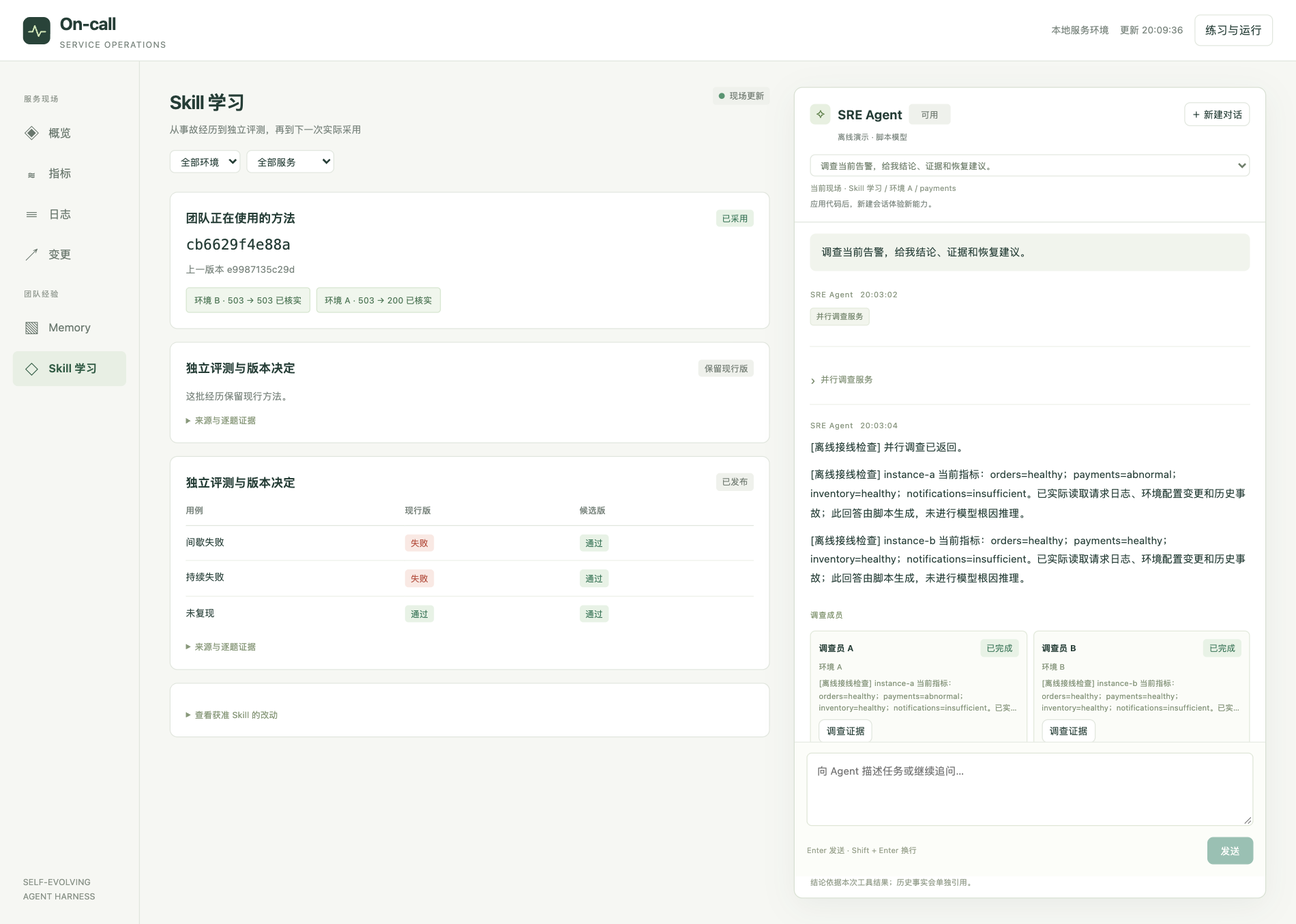
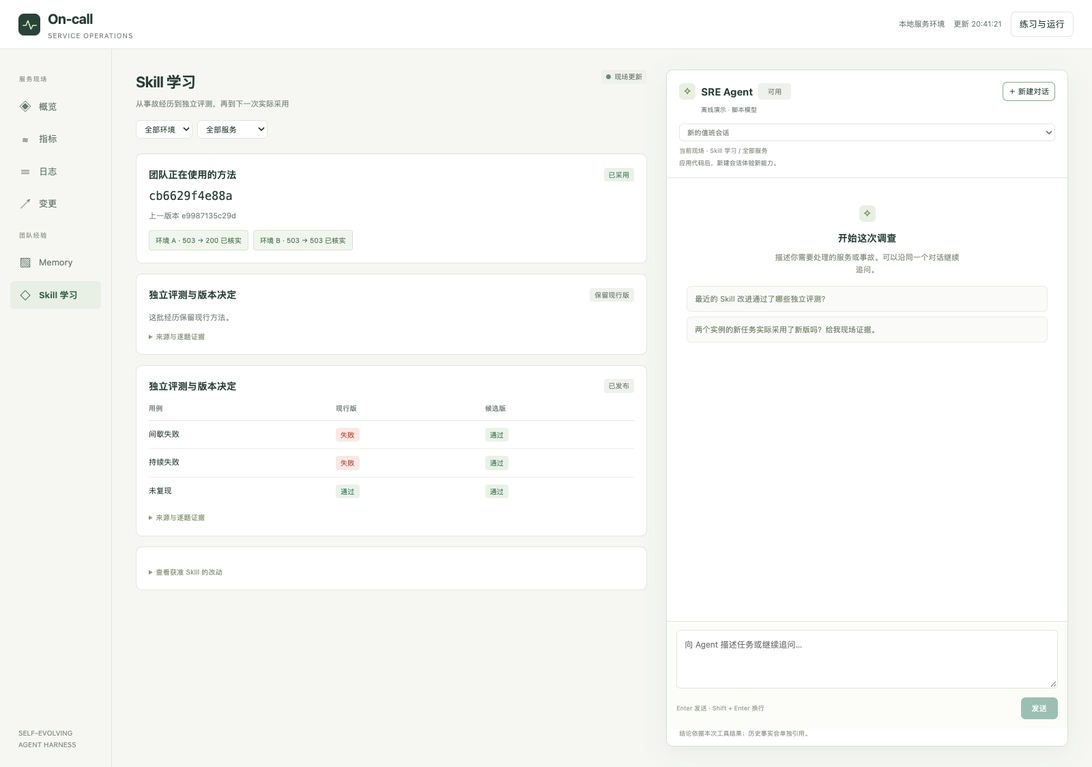
fix(capstone): expose runtime evidence throughout the workshop
Show patrol checkpoint Items and validated recovery-window progress.
Prevent overlapping scene and recovery actions from being silently lost.

Recapture all workshop stages in order, add a native Session evidence
view, and align the walkthrough with the displayed scope and state.
Verify both post-handoff patrol loops, four scoped recoveries, a new
memory-recall Session, and next-round adoption in both environments.

diff --git a/workshop/capstone/web/index.html b/workshop/capstone/web/index.html
@@ -7,7 +7,7 @@
   <style>
     :root{--ink:#253d36;--muted:#79847d;--paper:#f6f7f3;--white:#fff;--line:#e1e6de;--green:#23765d;--pale:#edf4eb;--amber:#a56831;--red:#b65444;--shadow:0 9px 36px #233e3510}
     *{box-sizing:border-box}body{margin:0;color:var(--ink);background:var(--paper);font:13px/1.65 -apple-system,BlinkMacSystemFont,"PingFang SC","Microsoft YaHei",sans-serif}button,input,select,textarea{font:inherit;color:inherit}button{cursor:pointer;border:1px solid var(--line);background:white;border-radius:7px;padding:7px 12px;transition:border-color .15s}button:hover{border-color:#83ab91}button:disabled{opacity:.45;cursor:default}button.primary{color:white;background:var(--green);border-color:var(--green)}button.quiet{border-color:transparent;background:transparent}button.small{font-size:11px;padding:4px 8px}button:focus-visible,a:focus-visible,textarea:focus-visible,select:focus-visible{outline:2px solid #72aa89;outline-offset:2px}input,select,textarea{border:1px solid var(--line);border-radius:6px;background:white}input,select{padding:7px 9px;max-width:100%}textarea{resize:vertical;padding:11px;line-height:1.7}h1,h2,h3,h4,p{margin:0}h1{font-size:20px;letter-spacing:-.4px}h2{font-size:22px;letter-spacing:-.4px;font-weight:650}h3{font-size:14px;font-weight:650}h4{font-size:12px;font-weight:650}p+p{margin-top:8px}svg{display:block}.muted{color:var(--muted)}.tiny{font-size:11px}.mono{font:11px/1.65 ui-monospace,SFMono-Regular,Menlo,monospace}.row{display:flex;align-items:center;justify-content:space-between;gap:12px}.buttons{display:flex;align-items:center;gap:7px;flex-wrap:wrap}.badge{display:inline-flex;align-items:center;padding:2px 7px;background:#eff1ec;color:#727c73;border-radius:4px;font-size:10px;white-space:nowrap}.badge.good{background:#e8f2e6;color:#347153}.badge.warn{background:#faf0e2;color:var(--amber)}.badge.bad{background:#f9e9e4;color:var(--red)}.dot{width:7px;height:7px;border-radius:50%;display:inline-block;background:#9ea9a1}.dot.good{background:#5a9472}.dot.bad{background:#c77359}.dot.warn{background:#b69a5b}.empty{padding:24px 5px;color:var(--muted);font-size:12px}.eyebrow{text-transform:uppercase;letter-spacing:1.6px;font-size:9px;font-weight:700;color:var(--muted)}
-    .topbar{height:72px;border-bottom:1px solid var(--line);background:var(--white);display:flex;align-items:center;justify-content:space-between;padding:0 27px;gap:15px}.brand{display:flex;gap:11px;align-items:center}.brand-mark{display:grid;place-items:center;width:32px;height:32px;background:#294339;border-radius:8px}.brand-mark svg{width:23px;height:23px}.brand small{font-size:10px;display:block;color:var(--muted);letter-spacing:.9px}.top-meta{display:flex;gap:13px;align-items:center}.layout{display:grid;grid-template-columns:164px minmax(0,1fr);min-height:calc(100vh - 72px);max-width:1800px;margin:auto}.sidebar{border-right:1px solid var(--line);padding:25px 15px;display:flex;flex-direction:column;gap:6px}.nav{border:0;background:transparent;display:flex;gap:11px;align-items:center;text-align:left;padding:10px 13px;color:#69776d;border-radius:6px}.nav.active{background:#e8efe4;color:#305a43;font-weight:650}.nav-icon{width:18px;text-align:center;font:17px/1 Georgia,serif}.nav-heading{font-size:9px;letter-spacing:1.2px;color:#929a91;margin:12px 13px 6px}.sidebar-foot{margin-top:auto;padding:26px 12px 0;font-size:10px;color:#8a9389}.workspace{display:grid;grid-template-columns:minmax(0,1.12fr) minmax(350px,.88fr);gap:22px;padding:26px 25px;align-items:start;min-width:0}.business{min-width:0}.page-head{margin-bottom:22px}.page-head .row{align-items:flex-start}.page-head p{margin-top:5px;color:var(--muted);font-size:11px}.scope-filters{display:flex;gap:7px;margin-top:15px}.scope-filters select{font-size:11px;background:#fff;padding:5px 8px}.page[hidden]{display:none}.card{background:white;border:1px solid var(--line);border-radius:9px;padding:18px;min-width:0;margin-bottom:15px}.card-title{display:flex;align-items:center;justify-content:space-between;gap:10px;margin-bottom:13px}.summary{display:grid;grid-template-columns:repeat(2,minmax(0,1fr));gap:11px;margin-bottom:17px}.stat{border:1px solid var(--line);background:white;border-radius:8px;padding:14px 16px}.stat-label{color:var(--muted);font-size:10px;display:flex;align-items:center;gap:7px}.stat-value{font-size:28px;line-height:1.4;margin-top:6px;letter-spacing:-.8px;font-weight:600}.stat-unit{font-size:11px;font-weight:400;color:var(--muted);margin-left:4px}.stat-note{font-size:10px;color:var(--muted);margin-top:2px}.alert-banner{display:flex;gap:10px;align-items:center;background:#fcf0e7;border:1px solid #f0d9c6;color:#95633b;padding:11px 13px;border-radius:7px;margin-bottom:16px}.alert-banner.clear{background:#eef4eb;border-color:#dfe9d9;color:#52754c}.service-table,.data-table,.eval-table{width:100%;border-collapse:collapse;text-align:left;font-size:11px}.service-table th,.data-table th,.eval-table th{font-weight:500;color:var(--muted);font-size:10px;padding:0 7px 9px 0;border-bottom:1px solid var(--line)}.service-table td,.data-table td,.eval-table td{padding:10px 7px 10px 0;border-bottom:1px solid #edf0e9;vertical-align:top}.service-table tr:last-child td,.data-table tr:last-child td,.eval-table tr:last-child td{border-bottom:0}.service-link{padding:0;background:none;border:0;text-align:left;font-size:11px;font-weight:600}.instance-name{font-size:9px;color:var(--muted);margin-top:2px}.service-status{display:flex;gap:5px;align-items:center}.pill-line{display:flex;gap:6px;flex-wrap:wrap}.incident-card{border-top:1px solid #edf0e9;padding:12px 0}.incident-card:first-child{border-top:0;padding-top:0}.incident-card:last-child{padding-bottom:0}.incident-open{border:0;background:none;padding:0;text-align:left;flex:1}.incident-summary{display:-webkit-box;-webkit-line-clamp:3;-webkit-box-orient:vertical;overflow:hidden;font-size:11px;color:var(--muted);margin-top:3px;line-height:1.7}.incident-id{font-size:9px;color:#98a095;overflow-wrap:anywhere}.detail-body{border-top:1px solid var(--line);margin-top:12px;padding-top:12px;font-size:12px;white-space:pre-wrap}.timeline{display:flex;gap:5px;flex-wrap:wrap;margin:11px 0}.timeline span{font-size:9px;color:#8b968b;border:1px solid var(--line);padding:3px 6px;border-radius:4px}.timeline span.done{color:#4c7957;border-color:#d3e3ce;background:#f0f6ed}.probes{display:flex;gap:5px;align-items:center;margin:10px 0}.probe{background:#f6eadf;color:#9b6b3c;padding:2px 8px;border-radius:4px;font-size:11px}.metric-grid{display:grid;gap:12px}.metric-chart .row{margin-bottom:11px}.chart{width:100%;height:96px}.chart-legend{display:flex;justify-content:space-between;font-size:9px;color:#9aa293;margin-top:4px}.log-filters{display:flex;gap:6px;margin-bottom:12px;align-items:center}.log-filters input{min-width:0;flex:1;font-size:11px}.log-filters select{font-size:11px;padding:7px}.log-row{padding:10px 0;border-top:1px solid #edf0e9}.log-row:first-child{border-top:0}.log-meta{display:flex;gap:8px;align-items:center;font-size:9px;color:var(--muted)}.log-content{font:11px/1.6 ui-monospace,SFMono-Regular,monospace;overflow-wrap:anywhere;margin-top:4px}.change{padding:13px 0;border-top:1px solid #edf0e9}.change:first-child{border-top:0;padding-top:0}.change:last-child{padding-bottom:0}.change-title{font-size:12px;font-weight:600}.change-description{font-size:11px;color:var(--muted);white-space:pre-wrap;margin-top:4px}.fact{font-size:12px}.fact .buttons{margin-top:10px}.fact p{margin-top:7px}.release-hash{font:17px/1.6 ui-monospace,SFMono-Regular,monospace;margin:6px 0}.adoptions{display:flex;flex-wrap:wrap;gap:7px;margin-top:12px}.adoption{border:1px solid #d6e5cf;color:#4f7757;background:#f0f6ed;padding:6px 9px;font-size:10px;border-radius:4px}.event{display:flex;gap:11px;padding:8px 0;border-top:1px solid #edf0e9;font-size:11px}.event:first-child{border-top:0}.event time{font-size:9px;color:var(--muted);min-width:53px}.page-note{font-size:10px;color:#939b90;margin-top:10px}.metric-sub{font-size:10px;color:var(--muted);margin-top:5px}
+    .topbar{height:72px;border-bottom:1px solid var(--line);background:var(--white);display:flex;align-items:center;justify-content:space-between;padding:0 27px;gap:15px}.brand{display:flex;gap:11px;align-items:center}.brand-mark{display:grid;place-items:center;width:32px;height:32px;background:#294339;border-radius:8px}.brand-mark svg{width:23px;height:23px}.brand small{font-size:10px;display:block;color:var(--muted);letter-spacing:.9px}.top-meta{display:flex;gap:13px;align-items:center}.layout{display:grid;grid-template-columns:164px minmax(0,1fr);min-height:calc(100vh - 72px);max-width:1800px;margin:auto}.sidebar{border-right:1px solid var(--line);padding:25px 15px;display:flex;flex-direction:column;gap:6px}.nav{border:0;background:transparent;display:flex;gap:11px;align-items:center;text-align:left;padding:10px 13px;color:#69776d;border-radius:6px}.nav.active{background:#e8efe4;color:#305a43;font-weight:650}.nav-icon{width:18px;text-align:center;font:17px/1 Georgia,serif}.nav-heading{font-size:9px;letter-spacing:1.2px;color:#929a91;margin:12px 13px 6px}.sidebar-foot{margin-top:auto;padding:26px 12px 0;font-size:10px;color:#8a9389}.workspace{display:grid;grid-template-columns:minmax(0,1.12fr) minmax(350px,.88fr);gap:22px;padding:26px 25px;align-items:start;min-width:0}.business{min-width:0}.page-head{margin-bottom:22px}.page-head .row{align-items:flex-start}.page-head p{margin-top:5px;color:var(--muted);font-size:11px}.scope-filters{display:flex;gap:7px;margin-top:15px}.scope-filters select{font-size:11px;background:#fff;padding:5px 8px}.page[hidden]{display:none}.card{background:white;border:1px solid var(--line);border-radius:9px;padding:18px;min-width:0;margin-bottom:15px}.card-title{display:flex;align-items:center;justify-content:space-between;gap:10px;margin-bottom:13px}.summary{display:grid;grid-template-columns:repeat(2,minmax(0,1fr));gap:11px;margin-bottom:17px}.stat{border:1px solid var(--line);background:white;border-radius:8px;padding:14px 16px}.stat-label{color:var(--muted);font-size:10px;display:flex;align-items:center;gap:7px}.stat-value{font-size:28px;line-height:1.4;margin-top:6px;letter-spacing:-.8px;font-weight:600}.stat-unit{font-size:11px;font-weight:400;color:var(--muted);margin-left:4px}.stat-note{font-size:10px;color:var(--muted);margin-top:2px}.alert-banner{display:flex;gap:10px;align-items:center;background:#fcf0e7;border:1px solid #f0d9c6;color:#95633b;padding:11px 13px;border-radius:7px;margin-bottom:16px}.alert-banner.clear{background:#eef4eb;border-color:#dfe9d9;color:#52754c}.service-table,.data-table,.eval-table{width:100%;border-collapse:collapse;text-align:left;font-size:11px}.service-table th,.data-table th,.eval-table th{font-weight:500;color:var(--muted);font-size:10px;padding:0 7px 9px 0;border-bottom:1px solid var(--line)}.service-table td,.data-table td,.eval-table td{padding:10px 7px 10px 0;border-bottom:1px solid #edf0e9;vertical-align:top}.service-table tr:last-child td,.data-table tr:last-child td,.eval-table tr:last-child td{border-bottom:0}.service-link{padding:0;background:none;border:0;text-align:left;font-size:11px;font-weight:600}.instance-name{font-size:9px;color:var(--muted);margin-top:2px}.service-status{display:flex;gap:5px;align-items:center}.pill-line{display:flex;gap:6px;flex-wrap:wrap}.incident-card{border-top:1px solid #edf0e9;padding:12px 0}.incident-card:first-child{border-top:0;padding-top:0}.incident-card:last-child{padding-bottom:0}.incident-open{border:0;background:none;padding:0;text-align:left;flex:1}.incident-summary{display:-webkit-box;-webkit-line-clamp:3;-webkit-box-orient:vertical;overflow:hidden;font-size:11px;color:var(--muted);margin-top:3px;line-height:1.7}.incident-id{font-size:9px;color:#98a095;overflow-wrap:anywhere}.detail-body{border-top:1px solid var(--line);margin-top:12px;padding-top:12px;font-size:12px;white-space:pre-wrap}.timeline{display:flex;gap:5px;flex-wrap:wrap;margin:11px 0}.timeline span{font-size:9px;color:#8b968b;border:1px solid var(--line);padding:3px 6px;border-radius:4px}.timeline span.done{color:#4c7957;border-color:#d3e3ce;background:#f0f6ed}.probes{display:flex;gap:5px;align-items:center;margin:10px 0}.probe{background:#f6eadf;color:#9b6b3c;padding:2px 8px;border-radius:4px;font-size:11px}.metric-grid{display:grid;gap:12px}.metric-chart .row{margin-bottom:11px}.chart{width:100%;height:96px}.chart-legend{display:flex;justify-content:space-between;font-size:9px;color:#9aa293;margin-top:4px}.log-filters{display:flex;gap:6px;margin-bottom:12px;align-items:center}.log-filters input{min-width:0;flex:1;font-size:11px}.log-filters select{font-size:11px;padding:7px}#logs-content{max-height:700px;overflow-y:auto;scrollbar-width:thin}.log-row{padding:10px 0;border-top:1px solid #edf0e9}.log-row:first-child{border-top:0}.log-meta{display:flex;gap:8px;align-items:center;font-size:9px;color:var(--muted)}.log-content{font:11px/1.6 ui-monospace,SFMono-Regular,monospace;overflow-wrap:anywhere;margin-top:4px}.change{padding:13px 0;border-top:1px solid #edf0e9}.change:first-child{border-top:0;padding-top:0}.change:last-child{padding-bottom:0}.change-title{font-size:12px;font-weight:600}.change-description{font-size:11px;color:var(--muted);white-space:pre-wrap;margin-top:4px}.fact{font-size:12px}.fact .buttons{margin-top:10px}.fact p{margin-top:7px}.release-hash{font:17px/1.6 ui-monospace,SFMono-Regular,monospace;margin:6px 0}.adoptions{display:flex;flex-wrap:wrap;gap:7px;margin-top:12px}.adoption{border:1px solid #d6e5cf;color:#4f7757;background:#f0f6ed;padding:6px 9px;font-size:10px;border-radius:4px}.event{display:flex;gap:11px;padding:8px 0;border-top:1px solid #edf0e9;font-size:11px}.event:first-child{border-top:0}.event time{font-size:9px;color:var(--muted);min-width:53px}.page-note{font-size:10px;color:#939b90;margin-top:10px}.metric-sub{font-size:10px;color:var(--muted);margin-top:5px}
     .agent-panel{position:sticky;top:20px;border:1px solid #d8e0d3;background:#fff;border-radius:10px;box-shadow:var(--shadow);min-width:0;display:flex;flex-direction:column;max-height:calc(100vh - 40px);min-height:630px;overflow:hidden}.agent-head{flex-shrink:0;padding:17px 18px 13px;border-bottom:1px solid var(--line)}.agent-label{display:flex;gap:8px;align-items:center}.agent-label h2{font-size:15px;letter-spacing:0}.agent-orb{width:24px;height:24px;display:grid;place-items:center;background:#e8f0e1;border-radius:6px;color:#587b43;font-size:13px}.agent-model{font-size:9px;color:var(--muted);margin:6px 0 0 32px}.new-chat{font-size:11px;padding:4px 8px}.chat-session{display:flex;gap:7px;margin-top:12px}.chat-session select{flex:1;min-width:0;font-size:10px;padding:5px 7px;color:#71806d}.chat-context{font-size:9px;color:#909b8b;margin-top:7px}.chat-body{padding:0 18px;overflow-y:auto;min-height:140px;flex:1;scrollbar-width:thin}.chat-empty{padding:40px 8px 30px;text-align:center}.chat-empty h3{font-size:14px;margin:12px 0 8px}.chat-empty p{color:#8a9485;font-size:11px;max-width:270px;margin:0 auto 15px}.suggestions{display:flex;flex-direction:column;gap:7px;align-items:stretch;margin:0 3px}.suggestion{font-size:11px;text-align:left;padding:9px 11px;background:#fafbf8;color:#718267;border-color:#e8ede3;line-height:1.65}.chat-message{padding:17px 0;border-bottom:1px solid #edf0e9;overflow-wrap:anywhere}.chat-message:last-child{border-bottom:0}.chat-message.user{margin:14px 0 4px;padding:11px 13px;border:0;background:#f1f4ed;border-radius:7px}.chat-message .speaker{font-size:9px;letter-spacing:.5px;color:#8a9781;margin-bottom:7px;display:flex;gap:8px;align-items:center}.chat-message.user .speaker{display:none}.chat-text{font-size:12px;line-height:1.85;white-space:normal;overflow-wrap:anywhere}.chat-text code{font-size:11px;background:#eef2e8;border-radius:3px;padding:1px 4px}.chat-text strong{font-weight:650}.tool-chips{display:flex;gap:5px;flex-wrap:wrap;margin:7px 0}.tool-chip{font:9px/1.7 ui-monospace,SFMono-Regular,monospace;color:#71836a;background:#f2f5ed;border:1px solid #e4eadc;border-radius:4px;padding:2px 6px}.trace{font-size:10px}.trace summary{color:#7f8f74;cursor:pointer;list-style:none;display:flex;align-items:center;gap:6px}.trace summary:before{content:'›';font-size:14px}.trace[open] summary:before{transform:rotate(90deg)}.trace pre{font-size:10px;max-height:190px}.chat-pending{font-size:11px;color:#7f9472;padding:12px 0;display:flex;align-items:center;gap:7px}.pulse{width:6px;height:6px;background:#85a36d;border-radius:50%;animation:pulse 1.5s infinite}.chat-error{background:#fbefeb;color:#a45b4d;border-radius:6px;font-size:11px;padding:10px 12px;margin:12px 0;white-space:pre-wrap}.thread-area{padding:0 18px;max-height:165px;overflow-y:auto;flex-shrink:0}.thread-grid{display:grid;grid-template-columns:repeat(2,minmax(0,1fr));gap:7px;padding:10px 0 7px}.thread-card{border:1px solid #e2e9db;background:#fbfcf8;border-radius:6px;padding:9px;min-width:0}.thread-card h4{font-size:10px;overflow-wrap:anywhere}.thread-card p{display:-webkit-box;-webkit-line-clamp:3;-webkit-box-orient:vertical;overflow:hidden;font-size:9px;color:#87967d;margin-top:5px;line-height:1.6;overflow-wrap:anywhere}.thread-title{font-size:9px;letter-spacing:.5px;color:#81946f;margin-top:10px}.composer{flex-shrink:0;padding:12px 14px 14px;border-top:1px solid var(--line);background:#fcfdf9}.composer textarea{width:100%;min-height:72px;max-height:170px;resize:vertical;background:white;border-color:#dfe6d7;font-size:12px}.composer-foot{display:flex;align-items:center;justify-content:space-between;gap:10px;margin-top:7px}.composer-hint{font-size:9px;color:#9aa38f}.composer button{font-size:11px;padding:6px 15px}.connection-error{font-size:10px;color:#b76b57;display:none;margin:10px 0}.agent-foot{flex-shrink:0;padding:0 18px 10px;font-size:9px;color:#97a08f}.offline-action{margin:9px 0 12px}
     dialog{border:1px solid var(--line);border-radius:10px;color:var(--ink);box-shadow:0 20px 70px #1d332a2a;padding:0;max-width:calc(100vw - 30px)}dialog::backdrop{background:#25392d35;backdrop-filter:blur(2px)}.drawer{position:fixed;inset:0 0 0 auto;margin:0;width:470px;height:100dvh;max-height:100dvh;border-radius:0;border-width:0 0 0 1px;overflow-y:auto;background:#f8f9f5}.drawer-head{position:sticky;top:0;background:#f8f9f5;border-bottom:1px solid var(--line);padding:20px 21px;z-index:1}.drawer-head h2{font-size:17px}.drawer-body{padding:20px 21px}.drawer-section{margin-bottom:24px}.drawer-section h3{margin-bottom:10px}.drawer-status{margin-bottom:13px}.steps{display:grid;grid-template-columns:1fr 1fr;gap:7px;margin:13px 0}.step{padding:11px;font-size:11px;text-align:left;background:#fff}.step.active{border-color:#95b286;background:#f0f6e9}.step .row{gap:4px;align-items:flex-start}.step small{display:block;color:#9ba48f;font-size:9px;margin-top:6px}.guide-text{color:#76856b;font-size:12px;line-height:1.8;margin:14px 0}.setup-code{margin-top:12px;font-size:10px;overflow-wrap:anywhere;color:#98a08f}.fault-selectors{display:flex;gap:7px;margin:10px 0}.fault-selectors select{flex:1;min-width:0;font-size:11px}.fault-buttons{display:flex;gap:6px;flex-wrap:wrap}.fault-buttons button{font-size:10px;padding:5px 8px}.check-record{border-top:1px solid var(--line);padding:12px 0}.check-record:first-child{border:0}.evidence-dialog{width:880px;max-height:85vh}.modal-head{padding:15px 20px;border-bottom:1px solid var(--line);position:sticky;top:0;background:white;z-index:1}.modal-head h2{font-size:14px}.modal-body{padding:10px 20px 20px}.modal-message{padding:13px 0;border-bottom:1px solid var(--line)}.modal-message .mono{color:#859878}.modal-message p{white-space:pre-wrap;font-size:12px}.modal-message pre{max-height:300px}pre{white-space:pre-wrap;word-break:break-word;overflow:auto;border:1px solid #e3e9dc;border-radius:5px;background:#f6f8f1;padding:10px;font:10px/1.75 ui-monospace,SFMono-Regular,Menlo,monospace;margin:8px 0 0;max-height:300px}details{margin-top:10px}summary{cursor:pointer;color:#88987a;font-size:10px}#toast{position:fixed;left:50%;bottom:25px;transform:translateX(-50%);background:#2d4736;color:#fff;border-radius:7px;padding:10px 17px;font-size:12px;box-shadow:var(--shadow);max-width:85vw;z-index:20;display:none}@keyframes pulse{50%{opacity:.3}}
     @media(min-width:941px){.agent-panel{height:calc(100dvh - 128px);max-height:calc(100dvh - 128px);min-height:0}.agent-panel .chat-body{min-height:0}.agent-panel .thread-area{max-height:min(165px,24vh);flex-shrink:1}}
@@ -94,10 +94,10 @@
   function percent(value){return value==null?'—':(Number(value)*100).toFixed(1)+'%';}
   function toast(message){$('toast').textContent=message;$('toast').style.display='block';clearTimeout(toast.timer);toast.timer=setTimeout(()=>$('toast').style.display='none',4500);}
   async function api(path,body){const response=await fetch(path,body===undefined?{}:{method:'POST',headers:{'Content-Type':'application/json'},body:JSON.stringify(body)});const data=await response.json();if(!response.ok)throw new Error(data.error||'请求失败');return data;}
-  async function action(body){if(actionBusy)return;actionBusy=true;try{const result=await api('/api/actions',body);await refresh();return result;}catch(error){toast(error.message);}finally{actionBusy=false;}}
+  async function action(body){if(actionBusy){toast('上一项操作仍在执行，请稍后再试。');return;}actionBusy=true;renderRecoveryControls();try{const result=await api('/api/actions',body);await refresh();return result;}catch(error){toast(error.message);}finally{actionBusy=false;renderRecoveryControls();}}
   function setContent(id,html){const node=$(id);if(node.dataset.rendered!==html){const open=[...node.querySelectorAll('details[open]')].map(detail=>detail.dataset.key).filter(Boolean);node.innerHTML=html;node.dataset.rendered=html;node.querySelectorAll('details[data-key]').forEach(detail=>detail.open=open.includes(detail.dataset.key));}}
   function details(title,value,key){return '<details'+(key?' data-key="'+esc(key)+'"':'')+'><summary>'+esc(title)+'</summary><pre>'+esc(pretty(value))+'</pre></details>';}
-  function services(){return (state?.instances||[]).flatMap(instance=>instance.services.map(service=>({...service,instance:instance.id}))).filter(matchesScope);}
+  function services(){return (state?.instances||[]).flatMap(instance=>instance.services.map(service=>({...service,instance:instance.id,source:instance.source}))).filter(matchesScope);}
   function matchesScope(row){return (!$('instance-filter').value||row.instance===$('instance-filter').value)&&(!$('service-filter').value||row.service===$('service-filter').value||row.name===$('service-filter').value);}
   function incidentRecords(){
     const reports=(state?.incidents||[]).filter(item=>!item.source.startsWith('check:'));
@@ -130,6 +130,12 @@
     return current?.operation===incoming?.operation&&(rank[current.status]||0)>(rank[incoming.status]||0)?current:incoming;
   }
   function renderRecoveryControls(){
+    document.querySelectorAll('[data-inject]').forEach(button=>button.disabled=actionBusy);
+    $('fault-instance').disabled=$('fault-service').disabled=actionBusy;
+    document.querySelectorAll('[data-recovery]').forEach(button=>{
+      const record=incidentRecords().find(item=>key(item)===button.dataset.recovery);
+      button.disabled=recoveryBusy||(!canRequestRecovery(record)&&!record?.recovery);
+    });
     const item=selectedRecoveryItem(),status=item?.recovery?.status;
     $('request-recovery').disabled=!item||recoveryBusy;
     $('request-recovery').textContent=status==='awaiting_approval'?'批准恢复':status==='verifying'?'查看恢复验证':'申请恢复';
@@ -149,6 +155,12 @@
     body+='<table class="data-table"><tbody>'+fields.map(([name,value])=>'<tr><th>'+esc(name)+'</th><td>'+esc(value||'—')+'</td></tr>').join('')+'</tbody></table>';
     body+='<h3 style="margin:17px 0 8px">调查结论</h3><div class="chat-text">'+textHtml(report.analysis||report.summary||'请查看原始调查报告。')+'</div>';
     body+='<div class="buttons" style="margin:12px 0">'+sessionButton(request.source,request.session_id,'查看绑定的调查报告',request.report_item_id)+'</div>';
+    const windows=request.verification?.windows||[];
+    if(request.execution){
+      body+='<h3 style="margin:17px 0 8px">恢复验证 · '+windows.length+' / 2 个独立健康窗口</h3>';
+      body+='<p class="tiny muted" style="margin:6px 0 12px">每个窗口持续 30 秒，5xx 为零且样本充分；窗口不得重叠，并须有巡检工具回执。</p>';
+      body+=windows.length?'<table class="data-table"><thead><tr><th>窗口</th><th>时间范围</th><th>请求 / 5xx</th><th>巡检证据</th></tr></thead><tbody>'+windows.map((entry,index)=>'<tr><td>'+(index+1)+'</td><td>'+time(entry.observation.window_start)+' → '+time(entry.observation.window_end)+'</td><td>'+esc(entry.observation.requests)+' / 0</td><td>'+sessionButton(entry.source,entry.session_id,'Item '+entry.report_item_id,entry.report_item_id)+'</td></tr>').join('')+'</tbody></table>':'<p class="tiny muted">尚无符合条件的执行后窗口，巡检仍在继续。</p>';
+    }
     if(status==='verifying')body+='<div class="alert-banner">已记录本地批准并执行受控恢复，正在等待两个独立健康窗口。</div>';
     if(status==='recovered')body+='<div class="alert-banner clear">后续巡检已验证恢复，并将健康检查点关联回这起事故。</div>';
     body+=details('申请、批准与执行证据',request,'recovery-'+request.operation);
@@ -204,12 +216,12 @@
   function renderOverview(){const rows=services(),all=incidents(),active=all.filter(item=>item.status!=='recovered'),requests=rows.reduce((sum,row)=>sum+Number(row.metrics?.requests||0),0),p95=rows.filter(row=>row.metrics?.p95_ms!=null).map(row=>Number(row.metrics.p95_ms));const values=[['当前告警',active.length,'等待调查或恢复'],['异常服务',rows.filter(row=>row.health==='abnormal'||row.health==='unavailable').length,'当前指标窗口'],['请求总数',requests.toLocaleString('zh-CN'),'最近 30 秒'],['最高 P95',p95.length?Math.max(...p95).toFixed(0):'—','毫秒 · 所选服务']];
     let body='<div class="summary">'+values.map(([label,value,note])=>'<div class="stat"><div class="stat-label">'+esc(label)+'</div><div class="stat-value">'+esc(value)+'</div><div class="stat-note">'+esc(note)+'</div></div>').join('')+'</div>';
     body+='<div class="alert-banner '+(!active.length?'clear':'')+'"><span class="dot '+(active.length?'bad':'good')+'"></span><span>'+esc(active.length?active.length+' 起事故正在调查或等待恢复':'当前没有待处理的事故告警')+'</span></div>';
-    body+='<div class="card"><div class="card-title"><h3>服务健康</h3><span class="tiny muted">30 秒窗口</span></div><table class="service-table"><thead><tr><th>服务 / 环境</th><th>5xx</th><th>P95</th><th>状态</th></tr></thead><tbody>'+rows.map(row=>'<tr><td><button class="service-link" data-service-scope="'+esc(row.name)+'" data-instance-scope="'+esc(row.instance)+'">'+esc(row.name)+'</button><div class="instance-name">'+esc(instanceName(row.instance))+'</div></td><td>'+percent(row.metrics?.error_rate)+'</td><td>'+(row.metrics?.p95_ms==null?'—':Number(row.metrics.p95_ms).toFixed(0)+' ms')+'</td><td><div class="service-status">'+statusDot(row.health)+esc(labels[row.health]||row.health)+'</div></td></tr>').join('')+'</tbody></table></div>';
+    body+='<div class="card"><div class="card-title"><h3>服务健康与巡检</h3><span class="tiny muted">'+(state.agent.status==='running'?'Agent 巡检运行中 · ':'')+'30 秒窗口</span></div><table class="service-table"><thead><tr><th>服务 / 环境</th><th>5xx</th><th>P95</th><th>状态</th><th>最近巡检</th></tr></thead><tbody>'+rows.map(row=>'<tr><td><button class="service-link" data-service-scope="'+esc(row.name)+'" data-instance-scope="'+esc(row.instance)+'">'+esc(row.name)+'</button><div class="instance-name">'+esc(instanceName(row.instance))+'</div></td><td>'+percent(row.metrics?.error_rate)+'</td><td>'+(row.metrics?.p95_ms==null?'—':Number(row.metrics.p95_ms).toFixed(0)+' ms')+'</td><td><div class="service-status">'+statusDot(row.health)+esc(labels[row.health]||row.health)+'</div></td><td>'+(row.checkpoint?'<div class="tiny muted">'+time(row.checkpoint.checked_at)+'</div>'+sessionButton(row.source,row.checkpoint.session_id,'Item '+row.checkpoint.report_item_id,row.checkpoint.report_item_id):'<span class="tiny muted">尚未巡检</span>')+'</td></tr>').join('')+'</tbody></table></div>';
     body+='<div class="card"><div class="card-title"><h3>事故与调查</h3><span class="tiny muted">'+all.length+' 起记录</span></div>'+(all.length?all.slice(0,8).map(incidentCard).join(''):'<div class="empty">尚无事故。服务发生异常后，监控告警会出现在这里。</div>')+'</div>';
     setContent('overview-content',body);
   }
   function incidentCard(item){const branch=item.investigation,report=branch?.report||item.report||{},expanded=selectedIncident===key(item),probes=branch?.probes||[];let body='<article class="incident-card"><div class="row"><button class="incident-open" data-incident="'+esc(key(item))+'"><div class="row"><h3>'+esc(item.service)+' <span class="tiny muted">· '+esc(instanceName(item.instance))+'</span></h3>'+badge(item.status)+'</div><p class="incident-summary">'+esc(report.analysis||report.summary||(item.monitor_only?'监控已发出告警，等待 Agent 接手调查。':'正在收集服务证据…'))+'</p><div class="incident-id">'+esc(item.incident_id)+' · '+time(item.observed_at)+'</div></button></div>';
-    if(expanded){const timeline=[['告警',true],['调查',!!branch],['工程师交接',!!item.page],['批准恢复',item.recovery?.approval?.confirmed===true],['恢复验证',item.status==='recovered']];body+='<div class="timeline">'+timeline.map(([label,done])=>'<span class="'+(done?'done':'')+'">'+label+'</span>').join('')+'</div><div class="probes">'+probes.map((probe,i)=>(i?'<span class="muted">→</span>':'')+'<span class="probe">'+esc(probe.http_status)+'</span>').join('')+'</div>'+(report.recovery_plan?'<p class="incident-summary">恢复建议 · '+esc(report.recovery_plan.action==='clear_lab_fault'?'申请并明确批准后清除本次实验故障，再核对两个独立健康窗口':'继续观察当前服务，等待更多证据')+'</p>':'')+'<div class="buttons" style="margin-top:10px"><button class="small" data-investigate="'+esc(key(item))+'"'+(!chatAvailable()?' disabled':'')+'>交给 Agent 调查</button>'+'<button class="small" data-recovery="'+esc(key(item))+'"'+(!canRequestRecovery(item)&&!item.recovery?' disabled':'')+'>'+esc(item.recovery?.status==='awaiting_approval'?'批准恢复':item.recovery?.status==='verifying'?'查看恢复验证':item.status==='recovered'?'恢复证据':'申请恢复')+'</button>'+sessionButton(item.monitor_only?null:item.source,item.session_id,'初判证据',item.report_item_id)+(branch?sessionButton(item.source,branch.session_id,'补查证据',branch.report_item_id):'')+'</div>';}return body+'</article>';}
+    if(expanded){const timeline=[['告警',true],['调查',!!branch],['工程师交接',!!item.page],['批准恢复',item.recovery?.approval?.confirmed===true],['恢复验证',item.status==='recovered']];body+='<div class="timeline">'+timeline.map(([label,done])=>'<span class="'+(done?'done':'')+'">'+label+'</span>').join('')+'</div><div class="probes">'+probes.map((probe,i)=>(i?'<span class="muted">→</span>':'')+'<span class="probe">'+esc(probe.http_status)+'</span>').join('')+'</div>'+(report.recovery_plan?'<p class="incident-summary">恢复建议 · '+esc(report.recovery_plan.action==='clear_lab_fault'?'申请并明确批准后清除本次实验故障，再核对两个独立健康窗口':'继续观察当前服务，等待更多证据')+'</p>':'')+'<div class="buttons" style="margin-top:10px"><button class="small" data-investigate="'+esc(key(item))+'"'+(!chatAvailable()?' disabled':'')+'>交给 Agent 调查</button>'+'<button class="small" data-recovery="'+esc(key(item))+'"'+(recoveryBusy||(!canRequestRecovery(item)&&!item.recovery)?' disabled':'')+'>'+esc(item.recovery?.status==='awaiting_approval'?'批准恢复':item.recovery?.status==='verifying'?'查看恢复验证':item.status==='recovered'?'恢复证据':'申请恢复')+'</button>'+sessionButton(item.monitor_only?null:item.source,item.session_id,'初判证据',item.report_item_id)+(branch?sessionButton(item.source,branch.session_id,'补查证据',branch.report_item_id):'')+'</div>';}return body+'</article>';}
   function lineChart(history,field){const points=(history||[]).filter(row=>Number.isFinite(Number(row[field]))).slice(-60);if(points.length<2)return '<div class="empty">正在积累指标窗口…</div>';const values=points.map(row=>Number(row[field])),max=Math.max(...values,field==='error_rate'?.05:1),coordinates=values.map((value,i)=>(i*398/(values.length-1)+1).toFixed(1)+','+(85-value/max*68).toFixed(1)).join(' '),color=field==='error_rate'&&values.some(v=>v>=.05)?'#bd7b56':'#739a62';return '<svg class="chart" viewBox="0 0 400 96" preserveAspectRatio="none" aria-label="'+esc(field==='error_rate'?'错误率走势':'响应时间走势')+'"><line x1="0" y1="17" x2="400" y2="17" stroke="#edf0e7"/><line x1="0" y1="51" x2="400" y2="51" stroke="#edf0e7"/><line x1="0" y1="85" x2="400" y2="85" stroke="#e2e8dc"/><polyline points="'+coordinates+'" fill="none" stroke="'+color+'" stroke-width="1.7" vector-effect="non-scaling-stroke"/></svg><div class="chart-legend"><span>'+time(points[0].time)+'</span><span>上限 '+(field==='error_rate'?percent(max):max.toFixed(0)+' ms')+'</span><span>'+time(points.at(-1).time)+'</span></div>';}
   function renderMetrics(){setContent('metrics-content','<div class="metric-grid">'+services().map(row=>'<div class="card metric-chart"><div class="row"><div><h3>'+esc(row.name)+'</h3><div class="tiny muted">'+esc(instanceName(row.instance))+'</div></div>'+badge(row.health)+'</div><div class="row"><span class="tiny muted">5xx 比例</span><strong>'+percent(row.metrics?.error_rate)+'</strong></div>'+lineChart(row.history,'error_rate')+'<div class="row" style="margin-top:17px"><span class="tiny muted">P95 响应时间</span><strong>'+(row.metrics?.p95_ms==null?'—':Number(row.metrics.p95_ms).toFixed(0)+' ms')+'</strong></div>'+lineChart(row.history,'p95_ms')+'<p class="metric-sub">'+(row.checkpoint?'最近巡检 '+time(row.checkpoint.checked_at)+' · '+esc(labels[row.checkpoint.status]||row.checkpoint.status):'Agent 尚未留下巡检记录')+'</p></div>').join('')+'</div>');}
   function renderLogs(){const query=$('log-search').value.trim().toLowerCase(),level=$('log-level').value;const rows=(state.business?.logs||[]).filter(matchesScope).filter(row=>{const status=Number(row.http_status??row.status),bad=status>=400||['error','warn','warning'].includes(String(row.level).toLowerCase());return (!level||(level==='error'?bad:!bad))&&(!query||pretty(row).toLowerCase().includes(query));});$('log-count').textContent=rows.length+' 条';setContent('logs-content',rows.length?rows.slice(0,100).map(row=>{const status=row.http_status??row.status;return '<div class="log-row"><div class="log-meta"><span>'+time(row.timestamp??row.time??row.checked_at)+'</span><span>'+esc(instanceName(row.instance))+'</span><strong>'+esc(row.service)+'</strong>'+(status?'<span class="badge '+(Number(status)>=400?'bad':'good')+'">'+esc(status)+'</span>':'')+'</div><div class="log-content">'+esc(row.message||[row.method||'',row.path||'',row.latency_ms!=null?Number(row.latency_ms).toFixed(1)+' ms':''].filter(Boolean).join(' · ')||'请求回执')+'</div></div>';}).join(''):'<div class="empty">当前筛选范围还没有请求日志。</div>');}

diff --git a/workshop/capstone/workbench.py b/workshop/capstone/workbench.py
@@ -627,6 +627,7 @@ class Workbench:
                 row = db.execute("SELECT state FROM incidents WHERE id=?", (incident_id,)).fetchone()
                 runtime_state = row[0] if row else None
         return {**request, "approval": optional_json(directory / "approval.json"), "execution": execution,
+                "verification": optional_json(directory / "verification.json") or optional_json(directory / "verification-progress.json", {"windows": []}),
                 "runtime_state": runtime_state,
                 "status": "recovered" if runtime_state == "CLOSED" else "verifying" if execution else "approved" if optional_json(directory / "approval.json") else "awaiting_approval"}
 
@@ -635,7 +636,7 @@ class Workbench:
         from incident_runtime import IncidentRuntime
 
         request = self.recovery_snapshot(record["incident_id"])
-        if not request or not request["execution"] or request["runtime_state"] == "CLOSED" or record["recovered_inspection_id"] is None:
+        if not request or not request["execution"] or request["runtime_state"] == "CLOSED":
             return
         original = json.loads(record["observation"])
         if (source != request["source"] or source.rsplit("/", 1)[-1] != request["instance"] or original["service"] != request["service"]
@@ -668,7 +669,10 @@ class Workbench:
                 lower = observed["window_end"]
                 if len(windows) == 2:
                     break
-        if len(windows) != 2:
+        progress = self.root / "recovery" / record["incident_id"] / "verification-progress.json"
+        if optional_json(progress) != {"windows": windows}:
+            write_json(progress, {"windows": windows})
+        if len(windows) != 2 or record["recovered_inspection_id"] is None:
             return
         runtime = IncidentRuntime(self.root / "recovery" / "incidents.sqlite3")
         for index, window in enumerate(windows, 1):
@@ -915,7 +919,8 @@ class Workbench:
         finally:
             if db is not None:
                 db.close()
-        return {"id": alias, "services": services}
+        return {"id": alias, "services": services,
+                "source": f"{self.active_run.name}/{alias}" if self.active_run is not None else None}
 
     def incident_snapshot(self, source, state):
         database = state / "patrol.sqlite"

diff --git a/workshop/capstone/test_workbench.py b/workshop/capstone/test_workbench.py
@@ -575,8 +575,14 @@ class RecoveryApprovalTests(WorkbenchTestCase):
             window(6, cleared + 33, cleared + 63, service="orders")
             self.workbench.sync_recovery_verification(self.source, worker, record)
             self.assertEqual(self.workbench.recovery_snapshot(self.incident)["runtime_state"], "VERIFYING")
+            progress = self.workbench.recovery_snapshot(self.incident)["verification"]["windows"]
+            self.assertEqual([row["inspection_id"] for row in progress], [2])
             window(4, cleared + 33, cleared + 63)
             self.workbench.sync_recovery_verification("other-run/" + self.alias, worker, record)
+            self.assertEqual(self.workbench.recovery_snapshot(self.incident)["runtime_state"], "VERIFYING")
+            self.assertEqual(self.workbench.recovery_snapshot(self.incident)["verification"]["windows"], progress)
+            self.workbench.sync_recovery_verification(self.source, worker, {**record, "recovered_inspection_id": None})
+            self.assertEqual(len(self.workbench.recovery_snapshot(self.incident)["verification"]["windows"]), 2)
             self.assertEqual(self.workbench.recovery_snapshot(self.incident)["runtime_state"], "VERIFYING")
             self.workbench.sync_recovery_verification(self.source, worker, record)
             self.assertEqual(self.workbench.recovery_snapshot(self.incident)["runtime_state"], "CLOSED")

diff --git a/workshop/capstone/WALKTHROUGH.md b/workshop/capstone/WALKTHROUGH.md
@@ -23,13 +23,17 @@
 
 ## 2. 让巡检先转起来
 
-打开「练习与运行」，点击「启动 Agent」。参考模式已经提供完整实现；实作模式则从同一入口接入你实现的能力。
+打开「练习与运行」，点击「启动 Agent」。参考模式已经提供完整实现，可以直接启动；侧栏里的「待检查」表示尚未运行对应检查，不代表参考函数缺失。实作模式则从同一入口接入你实现的能力。
 
 ![启动参考 Agent 与场景控制入口](../../assets/images/workshop/02-start-agent.png)
 
 关闭侧栏，观察两套环境。正常流量和巡检请求会持续产生，服务记录会刷新。巡检由 `service-patrol` Skill 控制；每个实例保存自己的巡检记录、Session 和报告 Item，以便后续核对与恢复。
 
 ![Agent 上线后持续巡检两套服务](../../assets/images/workshop/03-continuous-patrol.png)
+
+表格中的「最近巡检」来自 Agent 已保存的检查点，显示检查时间和报告 Item。点击 Item，可以回到对应 Session，核对读取的 `service-patrol`、工具参数及原始回执。等下一轮结束，再看时间与 Item 是否推进；业务请求数增长本身不能证明 Agent 在巡检。
+
+![从巡检检查点打开原生 Session 的执行证据](../../assets/images/workshop/03b-patrol-evidence.png)
 
 此时先做一个判断：当前证据足以说明所有服务都正常吗？对照窗口和请求量，保留样本不足的判断。
 
@@ -39,15 +43,17 @@
 
 回到概览，先看哪项指标变坏，再看事故卡片。初判之后，系统从报告 Item fork 补查，形成调查结论和恢复建议，交接给值班工程师。交接完成后，原进程继续巡检。
 
-![两个故障进入事故调查与交接](../../assets/images/workshop/04-alert-and-handoff.png)
+两端都完成交接后，截图聚焦环境 A 的 `payments`。展开事故卡片，可以看到告警、调查、工程师交接的进度，以及补查探测与恢复建议。此时右侧还没有附加对话，避免将自动处置主链和后续人工提问混在一起。
+
+![聚焦环境 A，核对事故交接、补查探测和恢复建议](../../assets/images/workshop/04-alert-and-handoff.png)
 
 ## 4. 用现场证据检验结论
 
-切到「日志」，核对环境、服务、HTTP 状态与时间。持续失败和间歇失败能否只凭一次请求区分？再切到「指标」「变更」对照观察。探测到 5xx 可以说明故障表现，仍不能直接当成根因。
+保留环境 A、`payments` 的筛选，切到「日志」，选择「失败请求」，核对环境、服务、HTTP 状态与时间。持续失败和间歇失败能否只凭一次请求区分？再切到「指标」「变更」对照观察。探测到 5xx 可以说明故障表现，仍不能直接当成根因。
 
 ![请求日志提供实际 HTTP 证据](../../assets/images/workshop/05-request-evidence.png)
 
-回到概览，在右侧问：
+回到概览，将环境和服务筛选恢复为「全部」，新建对话，在右侧问：
 
 > 调查当前告警，给我结论、证据和恢复建议。
 
@@ -59,11 +65,11 @@
 
 ## 5. 核对范围，再批准恢复
 
-在已交接事故上点击「申请恢复」。逐项读恢复弹窗：事故 ID、环境、服务、源调查和恢复动作。这里批准的是清除本地实验故障，范围绑定到这一份申请。
+筛选环境 B 的 `orders`，在已交接事故上点击「申请恢复」。逐项读恢复弹窗：事故 ID、环境、服务、源调查和恢复动作。这里批准的是清除本地实验故障，范围绑定到这一份申请。
 
 ![恢复申请绑定具体事故、环境与服务](../../assets/images/workshop/07-scoped-approval.png)
 
-确认后点击「批准并执行本地恢复」。不要立即把事故当成已经恢复：动作执行之后，系统仍要等待两个互不重叠的健康窗口。
+确认后点击「批准并执行本地恢复」。不要立即把事故当成已经恢复：动作执行之后，系统仍要等待两个互不重叠的健康窗口。弹窗会显示已取得的窗口数、起止时间、请求数与报告 Item。下图是 1 / 2 的中间状态，事故仍未关闭；窗口进度来自持久化巡检回执，不是按等待时间估算。
 
 ![批准执行后仍需等待健康窗口验证](../../assets/images/workshop/08-health-verification.png)
 
@@ -73,17 +79,17 @@
 
 ## 6. 把事实留下，让新任务重新核对
 
-进入「Memory」，点击「复盘已恢复事故」。查看保存的历史事实及其来源，再点击「新会话召回」。新任务应检索旧事故，并重新获取当前现场；同一段对话还能记得刚才发生的事，不足以证明跨会话记忆。
+新建一段对话，清空上一轮调查的显示；进入「Memory」，点击「复盘已恢复事故」。查看保存的历史事实及其来源，再点击「新会话召回」。新任务应检索旧事故，并重新获取当前现场；同一段对话还能记得刚才发生的事，不足以证明跨会话记忆。
 
 ![有来源的事故事实与新会话现场核对](../../assets/images/workshop/10-team-memory.png)
 
-本次截图中的新会话召回发生在第二轮故障注入后，因此历史记录显示第一轮已经恢复，当前取数仍可能判断为异常。这正好用来检查：Agent 有没有把旧结论直接套到现在。
+本次召回发生在第一轮恢复后、第二轮故障注入前。截图中的历史事实有明确事故来源，新会话也重新查询了当前 HTTP 指标，得到健康状态。随后再注入故障，就应重新取数，不能沿用这里的健康结论。
 
 历史记录回答“当时发生过什么”。当前取数回答“现在是什么状态”。如果没有形成可保存的新事实，复盘也可以保留原状；以页面记录的实际决定为准。
 
 ## 7. 经评测批准，方法才进入正式版本
 
-进入「Skill 学习」。两端已经恢复并归档的初判会话进入同一演化批次，SkillClaw 生成隔离候选。持续失败、间歇失败、首次成功未复现这三个冻结现场，分别让新旧 Skill 从独立会话开始成对回放。
+保持右侧为新对话，进入「Skill 学习」。两端已经恢复并归档的初判会话进入同一演化批次，SkillClaw 生成隔离候选。持续失败、间歇失败、首次成功未复现这三个冻结现场，分别让新旧 Skill 从独立会话开始成对回放。
 
 ![独立评测与正式版本发布记录](../../assets/images/workshop/11-evaluation-and-release.png)
 
@@ -95,7 +101,7 @@
 
 ![新事故触发后核对两端实际采用](../../assets/images/workshop/12-next-round-adoption.png)
 
-图中第二轮还形成了一次「保留现行版」决定：已有方法不必每批都改，后台可以保留正式版并继续运行。
+若后续批次显示「保留现行版」，先查看决定来源。已有方法不必每批都改，后台可以保留正式版并继续运行。
 
 到这里，你观察过一条完整的链：服务持续运行，巡检积累记录，外部告警进入当前任务，调查交接后继续巡检，恢复经过明确批准和验证，事故事实进入记忆，经验形成候选，经独立评测后发布，并由新任务验证采用。
 
